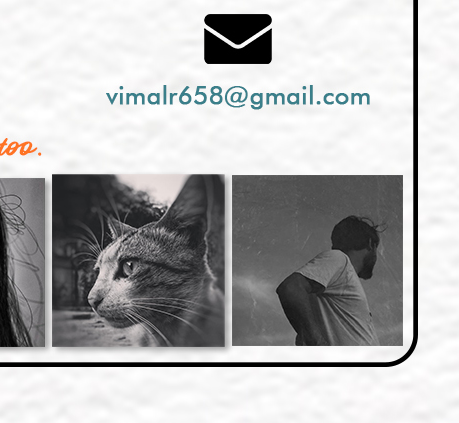
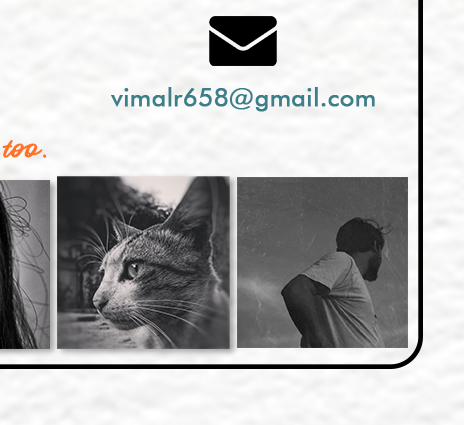
update

diff --git a/pg1.html b/pg1.html
@@ -4,24 +4,23 @@
 <meta http-equiv="Content-Type" content="text/html; charset=utf-8">
 </head>
 <body bgcolor="#FFFFFF" leftmargin="0" topmargin="0" marginwidth="0" marginheight="0">
-<!-- Save for Web Slices (Portfolio.jpg) -->
+<!-- Save for Web Slices (Portfolio.psd) -->
 <table id="Table_01" width="1080" height="1920" border="0" cellpadding="0" cellspacing="0">
 	<tr>
 		<td colspan="3">
-			<img src="images/pg1_01.png" width="1080" height="1497" alt=""></td>
+			<img src="images/pg1_01.png" width="1080" height="1495" alt=""></td>
 	</tr>
 	<tr>
 		<td rowspan="2">
-			<img src="images/pg1_02.png" width="467" height="423" alt=""></td>
+			<img src="images/pg1_02.png" width="465" height="425" alt=""></td>
 		<td>
-			<a href="https://www.instagram.com/_thewayiare_/" target="_blank">
-				<img src="images/Instagram.png" width="154" height="117" border="0" alt=""></a></td>
+			<img src="images/pg1_03.png" width="151" height="123" alt=""></td>
 		<td rowspan="2">
-			<img src="images/pg1_04.png" width="459" height="423" alt=""></td>
+			<img src="images/pg1_04.png" width="464" height="425" alt=""></td>
 	</tr>
 	<tr>
 		<td>
-			<img src="images/pg1_05.png" width="154" height="306" alt=""></td>
+			<img src="images/pg1_05.png" width="151" height="302" alt=""></td>
 	</tr>
 </table>
 <!-- End Save for Web Slices -->
